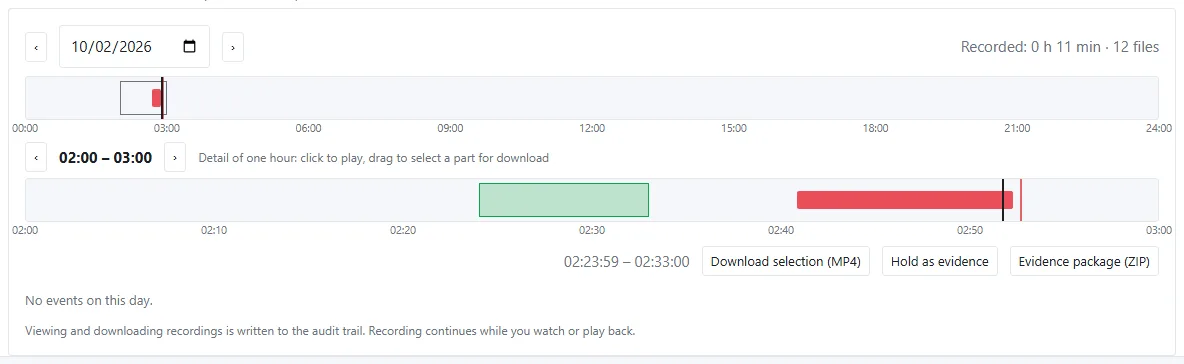
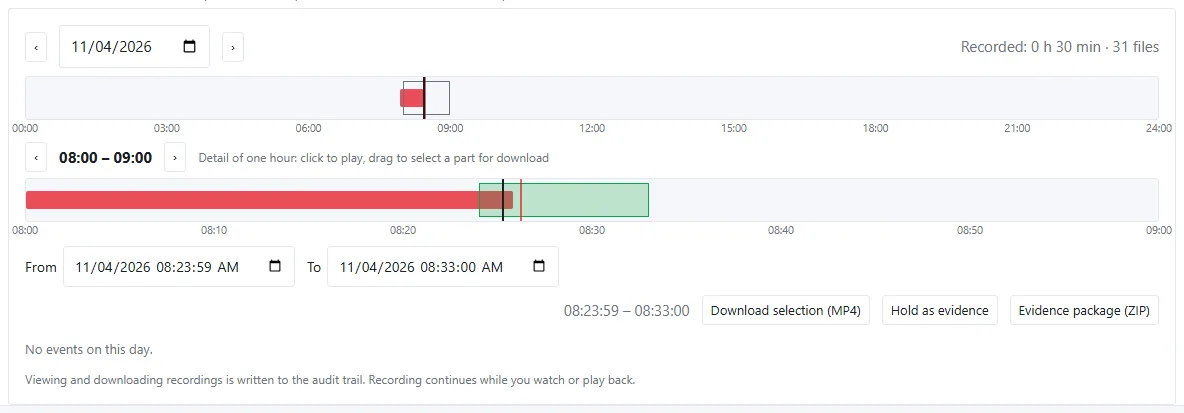
Exact From and To of a selection; displays enlarge a wall tile (0.86.9)

diff --git a/docs/telemetry/video-nvr/watching.md b/docs/telemetry/video-nvr/watching.md
@@ -96,7 +96,9 @@ Pausing the live picture and pressing play continues from the paused moment out 
 
 ## Export a clip
 
-Drag in the hour detail to select a part and choose **Download selection (MP4)**. The selection may be **at most one
+Drag in the hour detail to select a part, or enter the exact **From** and **To** in your local time, to the second and
+also across an hour or midnight (an empty field starts one hour from the other). Dragging fills the fields, so you can
+fine-tune a selection in them. Then choose **Download selection (MP4)**. The selection may be **at most one
 hour** — longer selections show *(at most one hour)* and the button stays off. The file is named
 `<camera>-<start time, UTC>.mp4` and plays in VLC or any player; the video is remuxed, never re-encoded. A change of
 the camera's picture size or codec inside the range ends the file early.

diff --git a/docs/telemetry/video-nvr/video-walls.md b/docs/telemetry/video-nvr/video-walls.md
@@ -95,7 +95,8 @@ On the wall:
 
 - a click on a tile enlarges that camera to the whole monitor with the **main stream** — on every wall; **Esc**,
   another click or **Back to the wall** returns. On a wall with **The enlarged camera offers its recordings**, the
-  enlarged camera also has a **Recordings** button (below);
+  enlarged camera also has a **Recordings** button (below). A paired display (a kiosk) enlarges a tile the same way and
+  returns to the wall by itself after 5 minutes; it has no user, so it never offers recordings;
 - tiles with an event going on are outlined with the event kinds, refreshed every 3 seconds;
 - the toolbar — wall name, **screen selector**, **layout** (grid or one camera per row), **Full screen**, **Open on
   all monitors** (the other screens), **Close** — hides together with the pointer after 3 seconds without movement.
